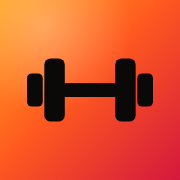
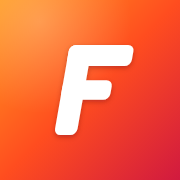
publish app from forma 686fad9

Changed region(s): [[0.1389, 0.25, 0.8611, 0.7778]]

diff --git a/index.html b/index.html
@@ -5,9 +5,9 @@
 <meta name="viewport" content="width=device-width,initial-scale=1,viewport-fit=cover">
 <meta name="theme-color" content="#070605">
 <meta name="apple-mobile-web-app-capable" content="yes">
-<link rel="manifest" href="manifest.webmanifest?v=2">
-<link rel="icon" href="icon.svg?v=2">
-<link rel="apple-touch-icon" href="apple-touch-icon.png?v=2">
+<link rel="manifest" href="manifest.webmanifest?v=3">
+<link rel="icon" href="icon.svg?v=3">
+<link rel="apple-touch-icon" href="apple-touch-icon.png?v=3">
 <title>Forma</title>
 <style>
 /* Themes. Every colour in the app comes from these tokens. Ember is the default (set by applyTheme); Midnight is the CSS fallback. */
@@ -243,7 +243,7 @@ const DEMO=/[?&]demo=1/.test(location.search);
 /* App updates: publish-app.sh stamps BUILD and writes version.txt. GitHub Pages lets browsers cache index.html
    for 10 minutes, so on open, refresh and focus the app asks for version.txt (no cache) and, if it changed,
    reloads under a new ?v= URL, which skips the stale cached copy. */
-const BUILD='2725fb4495495066ff2ccbefc88a7651a734c11f';let verChecked=0;
+const BUILD='686fad97a94e8bf629f55739e109d777e48b0f95';let verChecked=0;
 async function checkVersion(){
  if(BUILD.startsWith('__')||DEMO||Date.now()-verChecked<20000)return;
  if((typeof UI!=='undefined'&&(UI.sheet||UI.rest))||document.getElementById('cam'))return;verChecked=Date.now();
